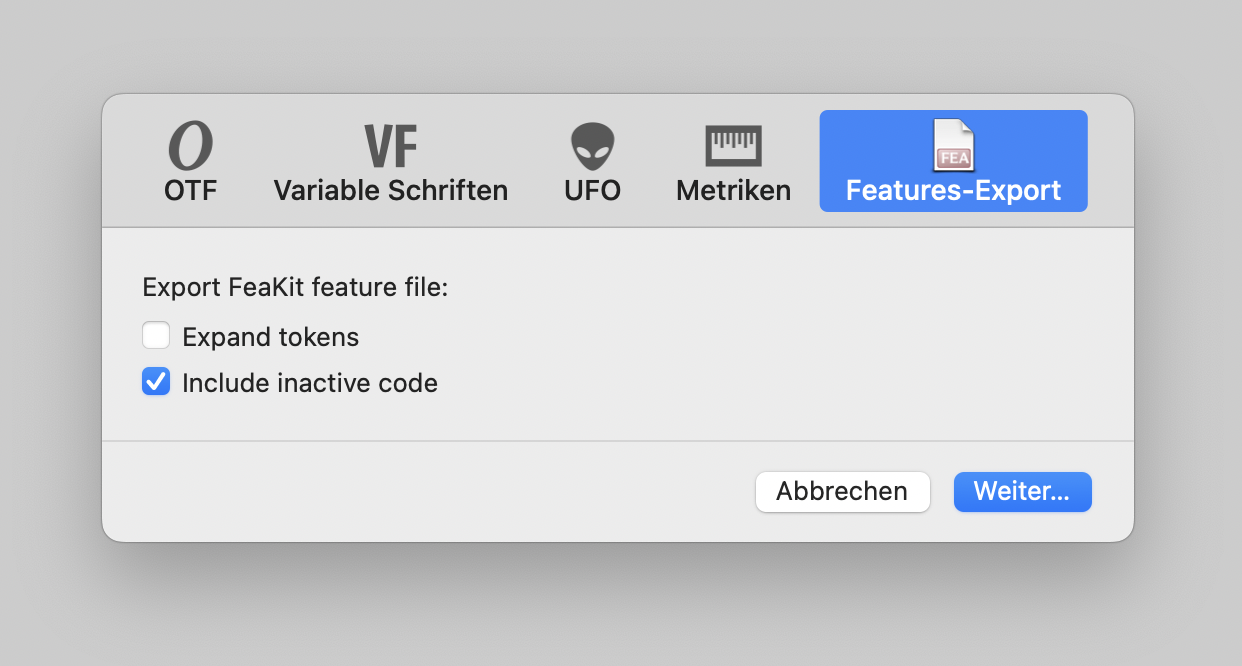
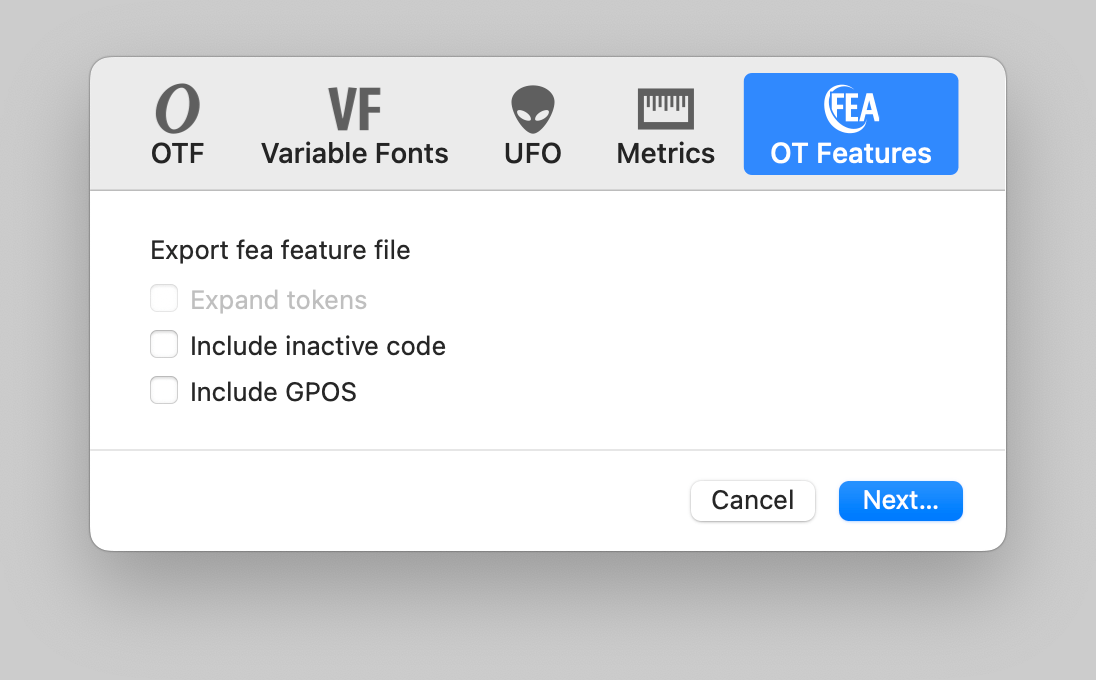
Update screenshot

diff --git a/README.md b/README.md
@@ -1,6 +1,6 @@
 # FEAExport
 
-Glyphs.app plug-in for exporting your font’s FeaKit features.
+Glyphs.app plug-in for exporting your font’s OpenType features.
 
 ![FEAExport](FEAExport.png)
 
